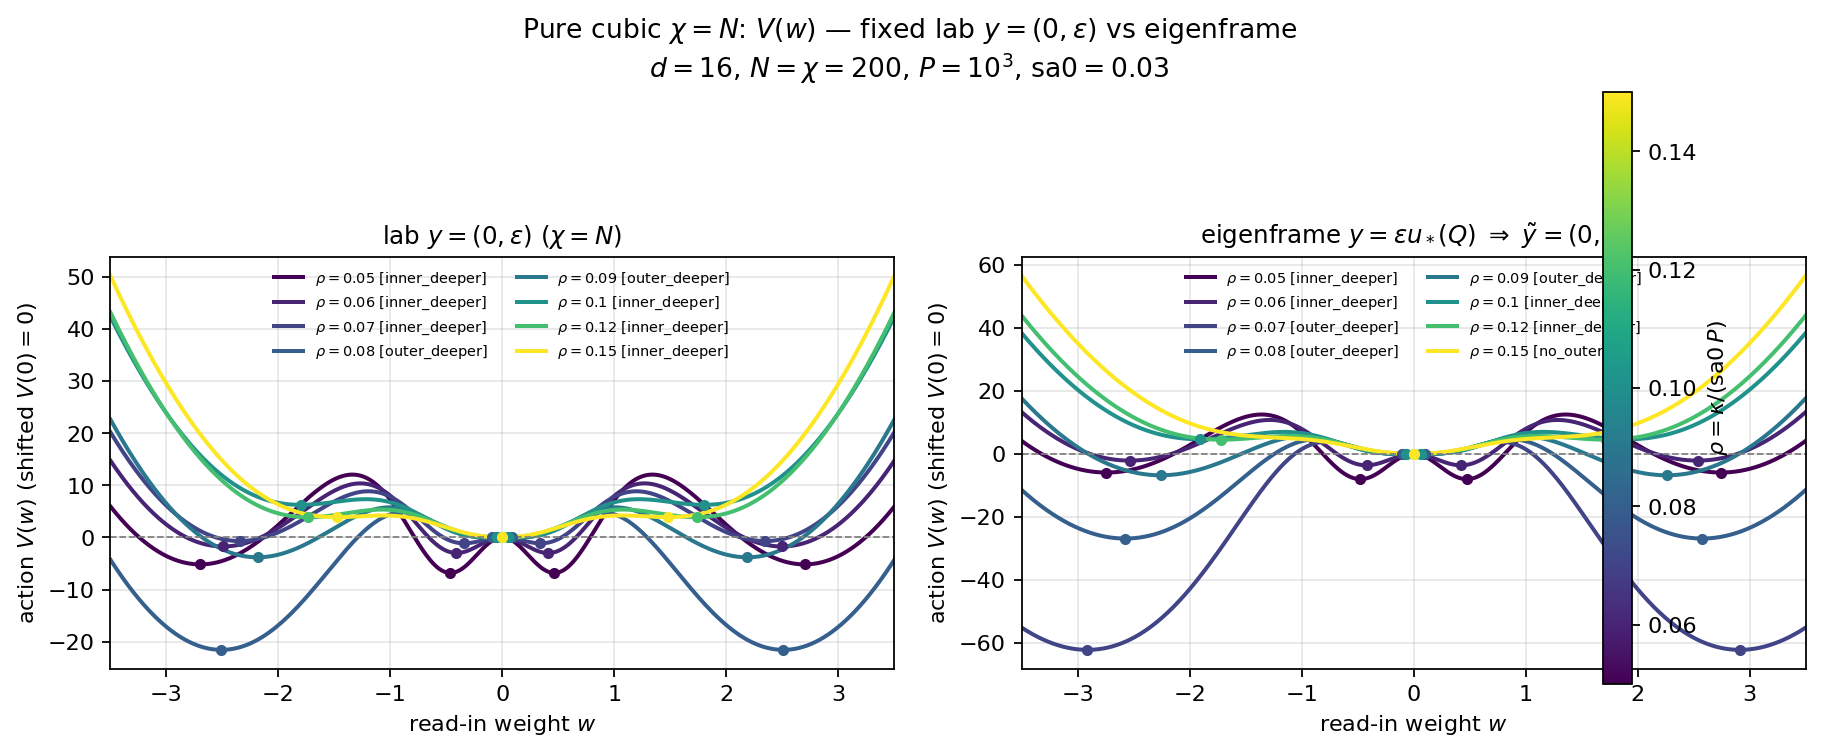
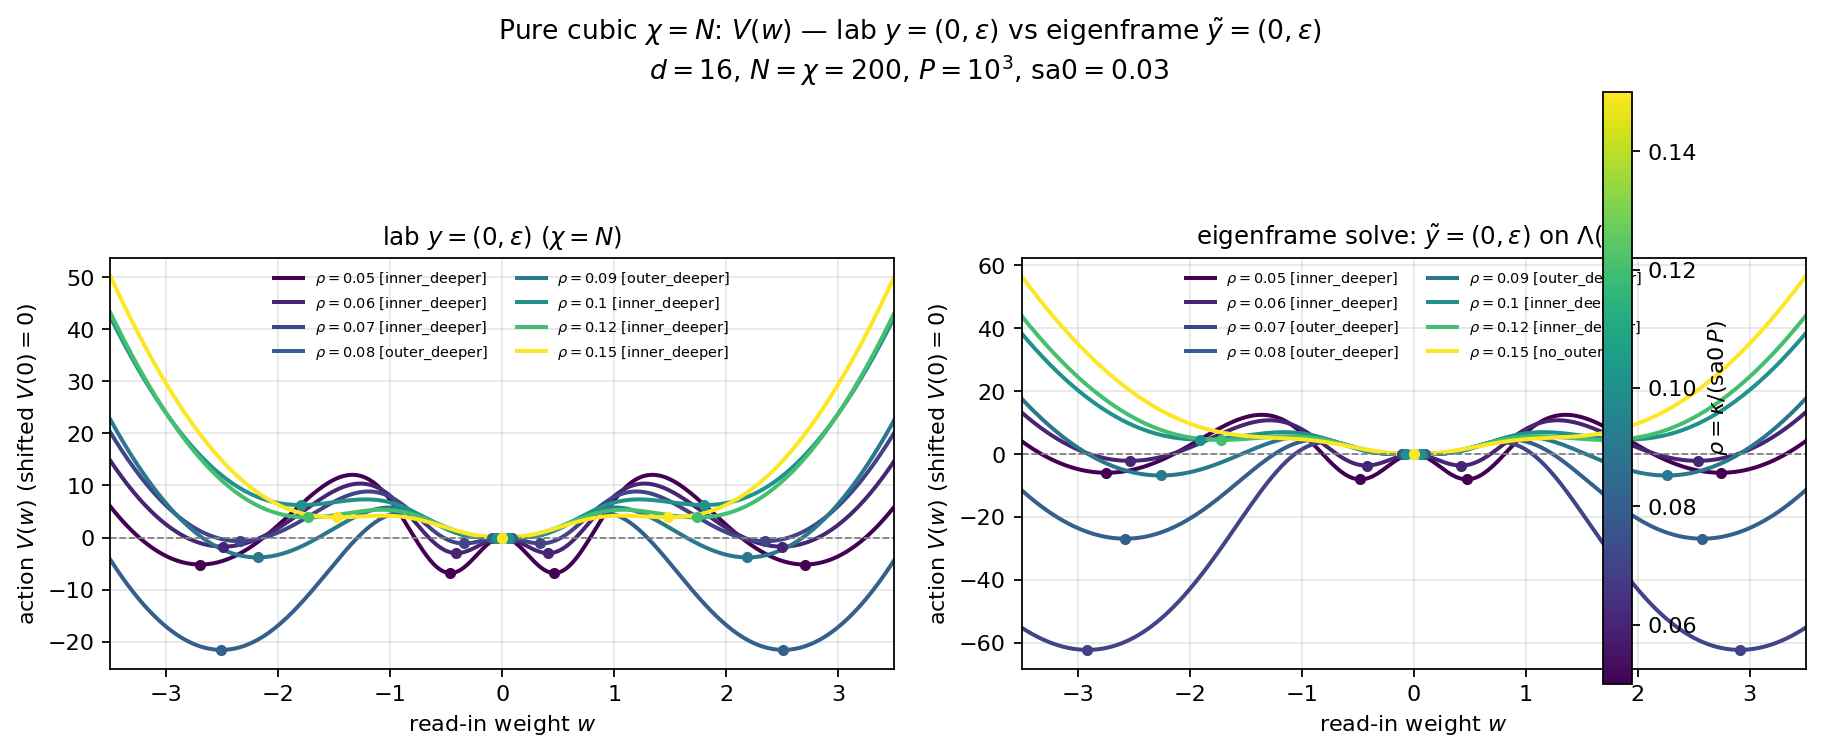
Solve cubic eigenframe equations on Λ with ỹ=(0,ε).
Rewrite amp/V/F to diagonalize Q, set ỹ one-hot, build G̃(Λ,ỹ), and
evaluate V via φ=Uᵀc(w). Lab pullback y=Uỹ is diagnostics only.

diff --git a/milestones/fcn2_erf_hidden_kernel/plot_pure_cubic_chiN_eigenframe.py b/milestones/fcn2_erf_hidden_kernel/plot_pure_cubic_chiN_eigenframe.py
@@ -127,11 +127,11 @@ def main():
         panel(axes[0], full, r"lab $y=(0,\varepsilon)$ ($\chi=N$)", keep, args.wmax)
         norm, cmap = panel(
             axes[1], eig,
-            r"eigenframe $y=\varepsilon u_*(Q)$ $\Rightarrow$ $\tilde y=(0,\varepsilon)$",
+            r"eigenframe solve: $\tilde y=(0,\varepsilon)$ on $\Lambda(Q)$",
             keep, args.wmax,
         )
         title = (
-            r"Pure cubic $\chi=N$: $V(w)$ — fixed lab $y=(0,\varepsilon)$ vs eigenframe"
+            r"Pure cubic $\chi=N$: $V(w)$ — lab $y=(0,\varepsilon)$ vs eigenframe $\tilde y=(0,\varepsilon)$"
             "\n"
             r"$d=16$, $N=\chi=200$, $P=10^3$, $\mathrm{sa0}=0.03$"
         )
@@ -143,11 +143,11 @@ def main():
         axes = [ax]
         norm, cmap = panel(
             ax, eig,
-            r"eigenframe $y=\varepsilon u_{\mathrm{cubic}}(Q)$ $\Rightarrow$ $\tilde y=(0,\varepsilon)$",
+            r"eigenframe: $\tilde y=(0,\varepsilon)$, $V=\frac12\phi^\top\tilde G\phi$",
             keep, args.wmax,
         )
         title = (
-            r"Eigenframe cubic $\chi=N$: read-in action $V(w)$"
+            r"Eigenframe cubic $\chi=N$: $V(w)$ with $\tilde y=(0,\varepsilon)$ on $\Lambda(Q)$"
             "\n"
             r"$d=16$, $N=\chi=200$, $P=10^3$, $\mathrm{sa0}=0.03$"
         )
